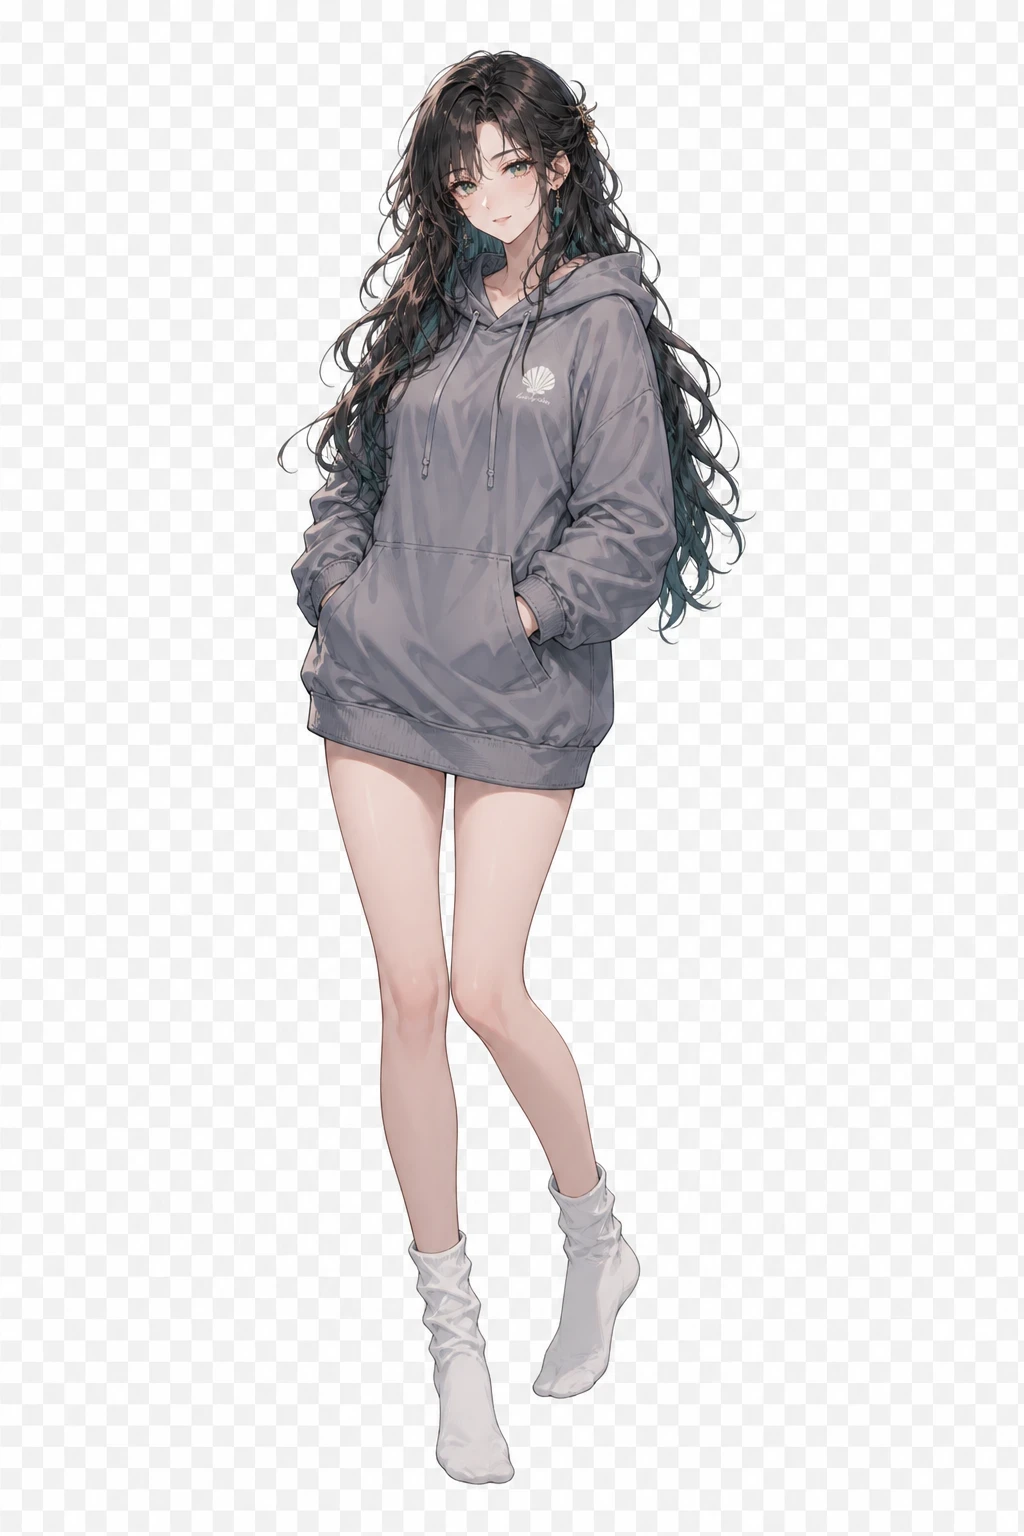
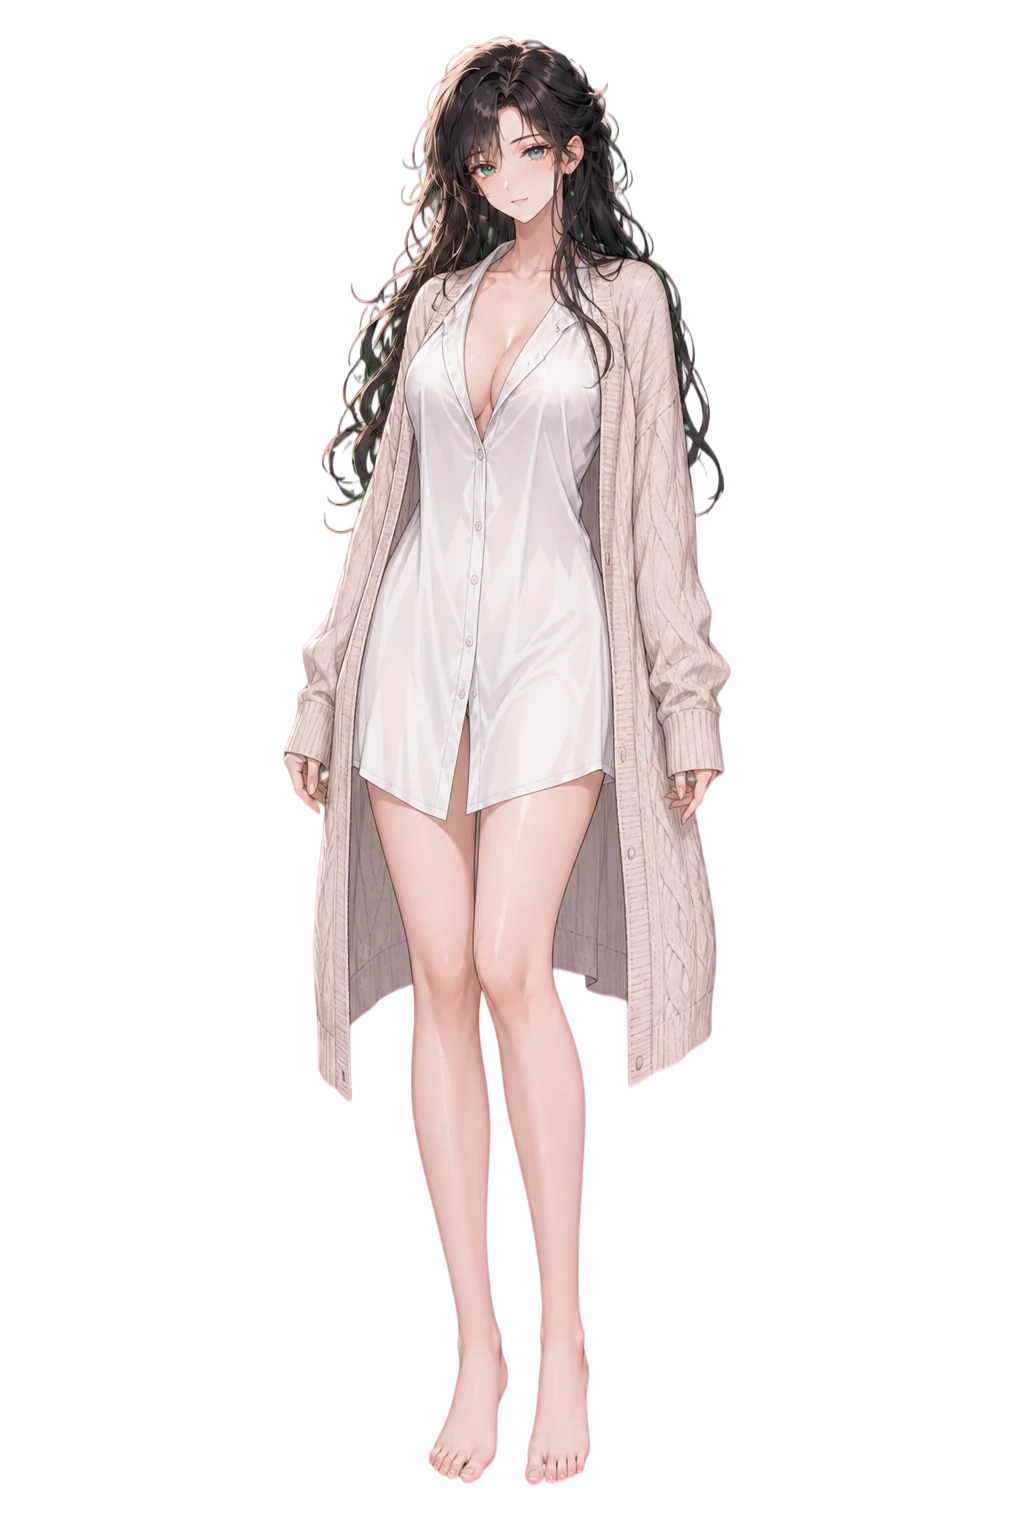
fix(qinghe): 替换顾清禾立绘为透明抠图 WebP
- 覆盖已有表情/服装差分立绘
- ringlight 改用独立透明图并刷新缓存版本

Changed region(s): [[0.2812, 0.0, 0.75, 0.9688]]

diff --git a/src/data/assets.ts b/src/data/assets.ts
@@ -6,7 +6,7 @@
  *
  * ASSET_VER：换图后递增，强制浏览器绕过旧缓存
  */
-export const ASSET_VER = '20260802qh6'
+export const ASSET_VER = '20260802qh7'
 
 function asset(path: string): string {
   if (!path) return path
@@ -149,7 +149,7 @@ export const qingheSprites: Record<string, string> = {
   blouseblush: asset('/images/char/qinghe-blouseblush.webp'),
   phone: asset('/images/char/qinghe-phone.webp'),
   lingerie: asset('/images/char/qinghe-lingerie.webp'),
-  ringlight: asset('/images/char/qinghe-lean.webp'),
+  ringlight: asset('/images/char/qinghe-ringlight.webp'),
   apron: asset('/images/char/qinghe-default.webp'),
   apronlean: asset('/images/char/qinghe-lean.webp'),
   cardigan: asset('/images/char/qinghe-casual.webp'),
